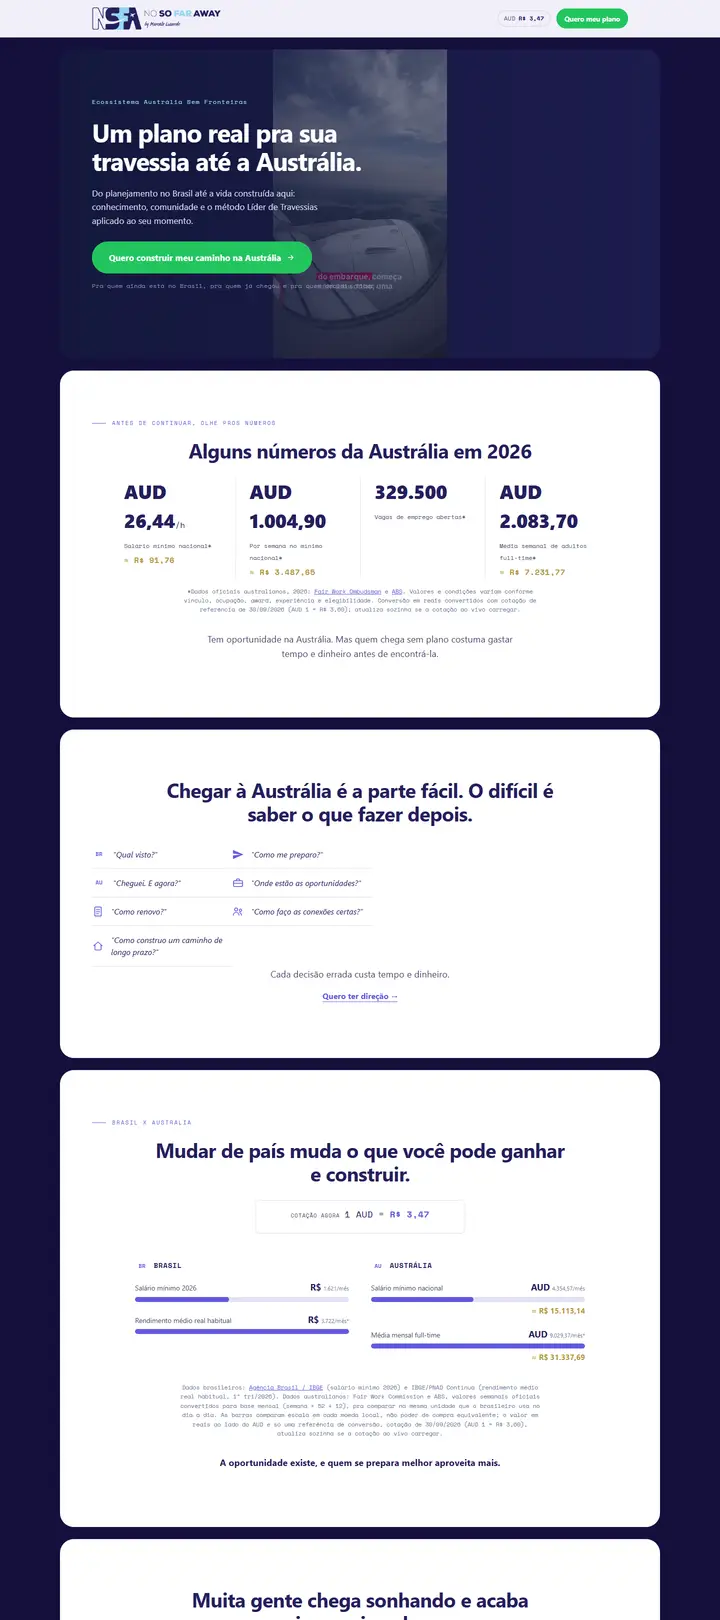
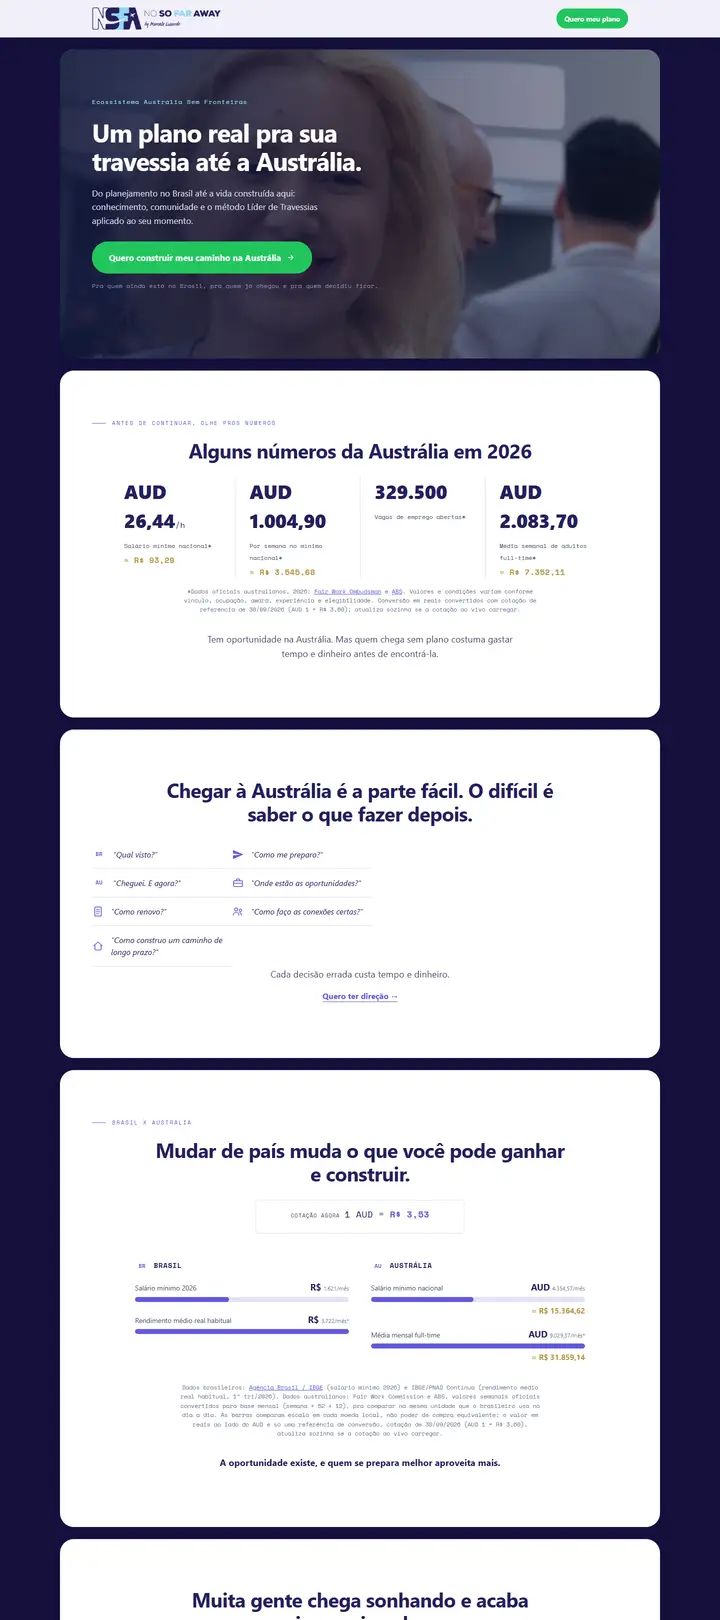
Marcelo Lusardo: links e capturas dos domínios oficiais

Changed region(s): [[0.0917, 0.0309, 0.9167, 0.2469], [0.1833, 0.216, 0.2139, 0.2469]]

diff --git a/index.html b/index.html
@@ -445,19 +445,19 @@
         </a>
         <article class="projeto projeto--duplo" data-reveal>
           <div class="projeto__pilha">
-            <a class="projeto__janela" href="https://jgdini.github.io/nosofaraway/new/index.html" target="_blank" rel="noopener" aria-label="Abrir o site Austrália Sem Fronteiras">
-              <span class="projeto__barra" aria-hidden="true"><i></i><i></i><i></i><b>Site</b></span>
+            <a class="projeto__janela" href="https://liderdetravessias.com.br/" target="_blank" rel="noopener" aria-label="Abrir o site Austrália Sem Fronteiras">
+              <span class="projeto__barra" aria-hidden="true"><i></i><i></i><i></i><b>liderdetravessias.com.br</b></span>
               <div class="projeto__tela"><img src="assets/img/projeto-marcelo-lusardo.webp" width="720" height="3240" loading="lazy" decoding="async" alt="Site Austrália Sem Fronteiras, de Marcelo Lusardo"></div>
             </a>
-            <a class="projeto__janela projeto__janela--frente" href="https://jgdini.github.io/nosofaraway/new/ecossistema-australia-blocks.html" target="_blank" rel="noopener" aria-label="Abrir a landing page do ecossistema Austrália Sem Fronteiras">
-              <span class="projeto__barra" aria-hidden="true"><i></i><i></i><i></i><b>Landing page</b></span>
+            <a class="projeto__janela projeto__janela--frente" href="https://marcelolusardo.com.br/" target="_blank" rel="noopener" aria-label="Abrir a landing page do ecossistema Austrália Sem Fronteiras">
+              <span class="projeto__barra" aria-hidden="true"><i></i><i></i><i></i><b>marcelolusardo.com.br</b></span>
               <div class="projeto__tela"><img src="assets/img/projeto-marcelo-lusardo-landing.webp" width="720" height="3240" loading="lazy" decoding="async" alt="Landing page do ecossistema Austrália Sem Fronteiras"></div>
             </a>
           </div>
           <p class="projeto__tipo projeto__tipo--destaque">Projeto internacional · Brasil e Austrália</p>
           <h3>Marcelo Lusardo</h3>
           <p>Site e landing page do ecossistema de quem leva brasileiros para estudar, trabalhar e viver na Austrália. Cliente do outro lado do mundo, com conteúdo em reais e em dólar australiano e cotação ao vivo.</p>
-          <p class="projeto__links"><a class="link-fio" href="https://jgdini.github.io/nosofaraway/new/index.html" target="_blank" rel="noopener">Ver o site ↗</a><a class="link-fio" href="https://jgdini.github.io/nosofaraway/new/ecossistema-australia-blocks.html" target="_blank" rel="noopener">Ver a landing page ↗</a></p>
+          <p class="projeto__links"><a class="link-fio" href="https://liderdetravessias.com.br/" target="_blank" rel="noopener">Ver o site ↗</a><a class="link-fio" href="https://marcelolusardo.com.br/" target="_blank" rel="noopener">Ver a landing page ↗</a></p>
           <p class="projeto__dado"><strong>23 anos</strong> de mercado e mais de 200 mil vistos aprovados pela Expert Education</p>
         </article>
         <a class="projeto" href="https://drlsys.com/" target="_blank" rel="noopener" data-reveal>

diff --git a/README.md b/README.md
@@ -28,7 +28,7 @@ Comparativo com o mesmo investimento em dois caminhos. Abas "Do jeito comum" e "
 - [x] Hanaoka: prints de antes/depois (topo, desktop e celular) já no case. Gerados por `node scripts/imagens.mjs` a partir de `Arquivos/`.
 - [ ] Hanaoka: números do Instagram (seguidores) e leads por mês. Confirmar que o cliente autoriza o case.
 - [x] Hanaoka: PageSpeed no computador 90/100/100/100 (print do João, 2026-10-07), usado no case. No celular o site fez 67 e 79 de desempenho; a maior parte do público acessa pelo computador.
-- [ ] Marcelo Lusardo: trocar o link do GitHub pelo domínio oficial quando subir e rodar `node scripts/imagens.mjs` de novo.
+- [x] Marcelo Lusardo: links trocados pelos domínios oficiais (liderdetravessias.com.br e marcelolusardo.com.br).
 - [ ] Veículo Judicial: confirmar o número de seguidores ganhos (+6 mil) com um print do antes.
 - [x] Faixa de nomes com fotos e logos (Raphael Mattos, Scale Club, Marcus Marques, Acelerador Empresarial, Joel Jota, Graciane Barbosa, Community), autorizados pela Amanda em 2026-10-07. Pablo Marçal saiu. Para trocar uma imagem: substituir em Arquivos/Pessoas e rodar `node scripts/pessoas.mjs` (os recortes em volta do rosto estão no script).
 - [ ] Destino da aplicação: preencher `ENVIO` no topo de `assets/js/main.js` (endpoint JSON ou número de WhatsApp). Hoje o formulário só mostra a mensagem de sucesso.
